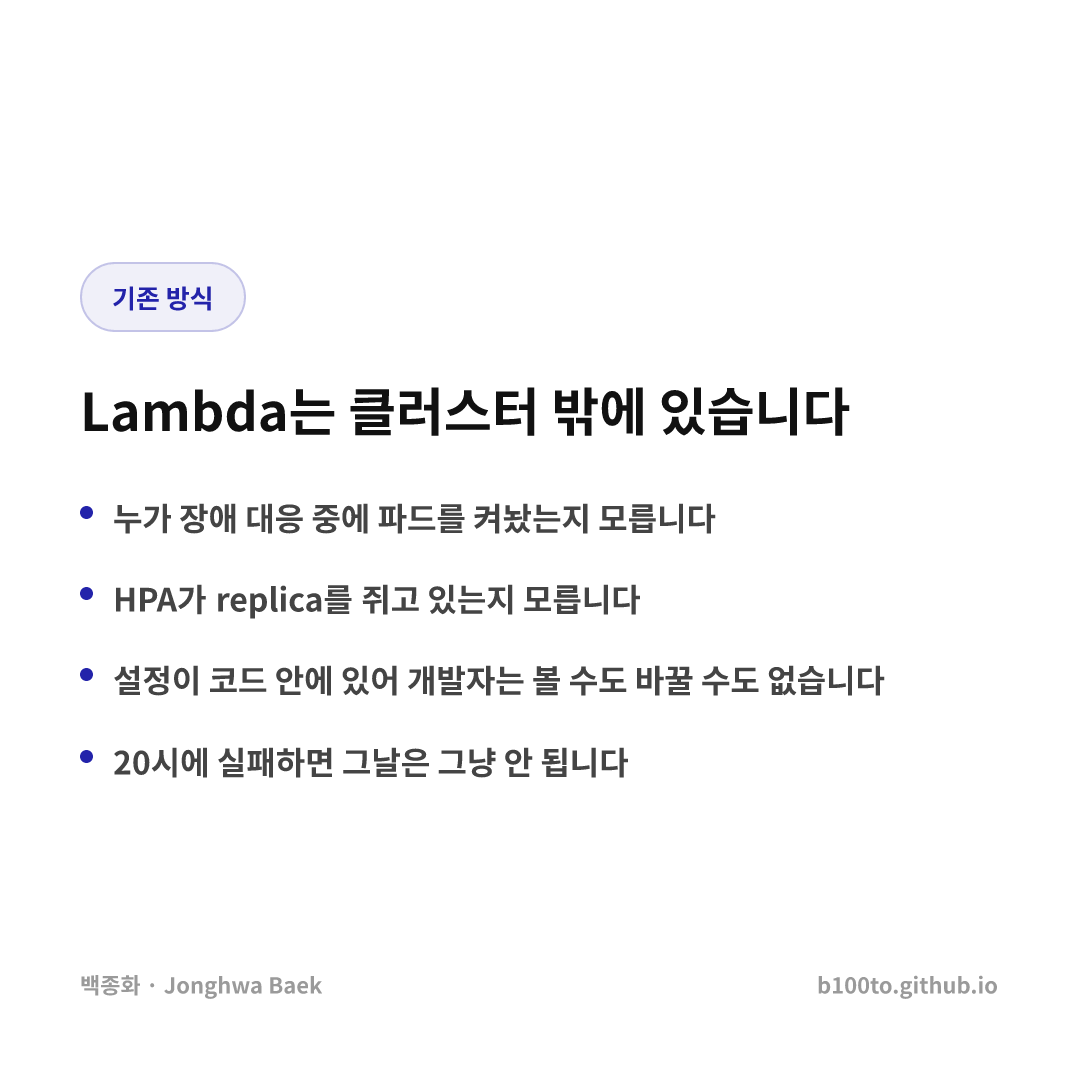
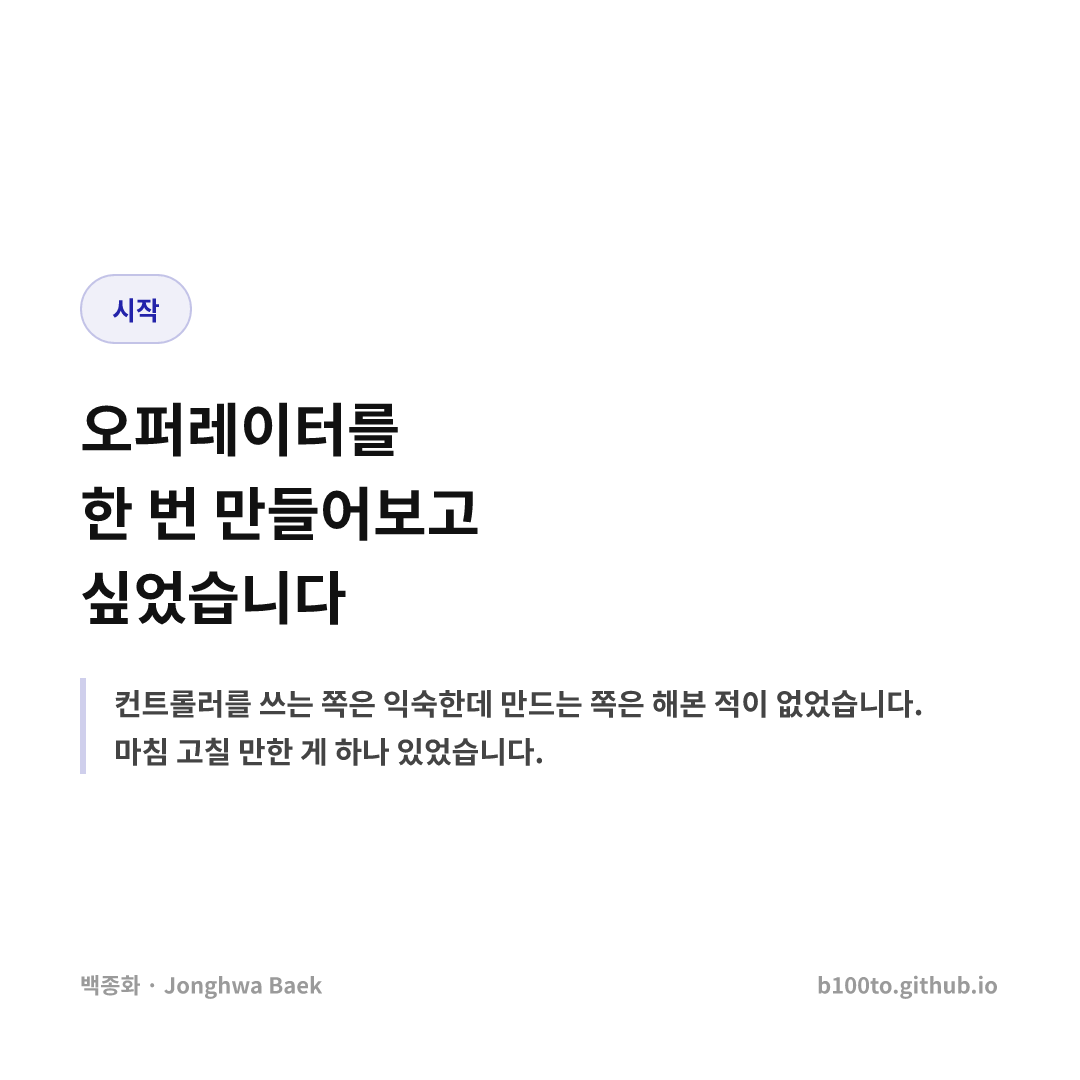
docs(posts): 실제 계기로 도입부를 다시 씀
앞선 판은 "Lambda 가 구조적으로 열등하다"는 기술 비판으로 시작했다. 그건 실제
이유가 아니었고, 반박당하기도 쉬운 주장이다.

실제 계기는 둘이었다. 오퍼레이터를 직접 만들어보고 싶었고 — 컨트롤러를 쓰는
쪽은 익숙한데 만드는 쪽은 해본 적이 없었다 — 마침 고칠 만한 것이 있었다.

그리고 Lambda 의 문제는 성능이나 설계가 아니라 위치였다. 인프라 대부분이
쿠버네티스와 Terraform 위에 있는데 이 기능 하나만 바깥에 있었고, 그래서
어디를 고치고 어떻게 배포하고 인수인계 시 어디부터 보는지가 애매했다.
동작하는 코드보다 누가 어떻게 유지보수하는가가 걸린 문제였다.

"우리 생태계 밖이라 유지보수가 어렵다"는 관찰이고, "이 도구가 열등하다"는
주장이다. 전자가 사실에 가깝고 방어할 필요도 없다.

카드 덱에도 같은 프레임을 반영해 계기 슬라이드를 넣었다. 11장이 됐다.

Changed region(s): [[0.0611, 0.3361, 0.7944, 0.5806], [0.0611, 0.6111, 0.8556, 0.7333], [0.0611, 0.2444, 0.2139, 0.3361]]

diff --git a/content/posts/kubernetes-operator-idle-reaper/index.md b/content/posts/kubernetes-operator-idle-reaper/index.md
@@ -11,31 +11,37 @@ heroStyle: "background"
 
 파드를 0으로 내려도 비용은 줄지 않습니다. 노드가 사라져야 줄어들고, 노드는 옮겨야 할 파드가 하나도 남지 않았을 때만 사라집니다.
 
-dev 환경 야간·주말 스케일다운은 예전부터 EventBridge + Lambda로 처리하고 있었습니다. 동작은 했지만 두 가지가 계속 걸렸습니다.
+이 글은 그 이야기이기도 하지만, 시작은 좀 더 단순했습니다.
+
+**오퍼레이터를 한 번 만들어보고 싶었습니다.** 컨트롤러를 쓰는 쪽으로는 익숙한데 만드는 쪽은 해본 적이 없었고, 플랫폼 엔지니어링 영역에 직접 손을 대보고 싶었습니다.
+
+마침 고칠 만한 게 하나 있었습니다.
 
 ---
 
-## 1. 클러스터 밖에서 조작하는 것의 한계
+## 1. Lambda가 나빠서가 아니라, 우리가 안 쓰는 도구라서
 
-**클러스터 안에서 무슨 일이 일어나는지 모릅니다.**
+dev 환경 야간·주말 스케일다운은 EventBridge + Lambda로 만들어 두고 잘 돌고 있었습니다. 문제는 동작이 아니었습니다.
 
-Lambda는 정해진 시각에 replica를 0으로 바꿉니다. 그런데 그 순간:
+**평소에 Lambda를 쓰지 않습니다.** 인프라 대부분이 쿠버네티스와 Terraform 위에 있는데, 이 기능 하나 때문에 관리해야 할 곳이 하나 더 생겼습니다.
 
-- 누가 장애 대응 중이라 파드를 켜놨는지 모릅니다
-- HPA가 붙어 있는 워크로드인지 모릅니다
-- 이미 0인지, 방금 배포됐는지 모릅니다
+그러면 이런 것들이 애매해집니다.
 
-전부 "지금 클러스터가 어떤 상태인가"를 알아야 판단할 수 있는데, 밖에서는 매번 API를 뒤져야 합니다.
+- 스케줄을 바꾸려면 어디를 고쳐야 하는가
+- 그 변경은 어떤 경로로 배포되는가
+- 다른 사람이 인수인계받으면 어디부터 봐야 하는가
 
-**설정이 개발자에게 보이지 않습니다.**
+동작하는 코드보다 **누가 어떻게 유지보수할 것인가**가 걸렸습니다. 쿠버네티스 생태계 안에 있는 것들은 배포도 조회도 권한도 같은 방식으로 다루는데, 이것만 바깥에 있었습니다.
 
-스케줄이 Lambda 코드나 환경변수 안에 있습니다. 개발자는 자기 네임스페이스가 몇 시에 꺼지는지 확인할 방법이 없고, 바꾸려면 DevOps에 요청해야 합니다.
+기술적인 한계도 물론 있었습니다.
 
-**그리고 한 번 쏘고 끝입니다.**
+**클러스터 안에서 무슨 일이 일어나는지 모릅니다.** Lambda는 정해진 시각에 replica를 0으로 바꿉니다. 그 순간 누가 장애 대응 중이라 파드를 켜놨는지, HPA가 붙어 있는 워크로드인지 알지 못합니다.
 
-Lambda가 20시에 실패하면 그날은 그냥 안 됩니다. 다음 실행까지 아무 일도 일어나지 않습니다.
+**설정이 개발자에게 보이지 않습니다.** 스케줄이 Lambda 코드나 환경변수 안에 있어서, 개발자는 자기 네임스페이스가 몇 시에 꺼지는지 확인할 방법이 없습니다.
 
----
+**그리고 한 번 쏘고 끝입니다.** 20시에 실패하면 그날은 그냥 안 됩니다.
+
+이 정도면 오퍼레이터로 옮겨서 간소화할 수 있겠다 싶었고, 만들어보면서 실제로 어떤 이점이 생기는지도 확인해보고 싶었습니다.
 
 ## 2. 컨트롤러로 옮기면 달라지는 것
 

diff --git a/content/posts/kubernetes-operator-idle-reaper/index.en.md b/content/posts/kubernetes-operator-idle-reaper/index.en.md
@@ -13,31 +13,37 @@ heroStyle: "background"
 
 Scaling pods to zero does not reduce the bill. The node has to go away, and a node only goes away when nothing is left on it that would have to be evicted first.
 
-Dev-environment nightly and weekend scale-down had been running on EventBridge plus Lambda for a while. It worked, but two things kept bothering me.
+This post is about that, but it started somewhere simpler.
+
+**I wanted to build an operator.** I am comfortable running controllers and had never written one, and I wanted to touch the platform-engineering side directly rather than only consume it.
+
+There happened to be something worth fixing.
 
 ---
 
-## 1. The cost of acting from outside the cluster
+## 1. Not because Lambda is bad, but because we do not use it
 
-**It cannot see what is happening inside.**
+Dev-environment nightly and weekend scale-down had been running on EventBridge plus Lambda for a while, and running fine. The problem was not that it failed.
 
-Lambda sets replicas to zero at a fixed time. At that moment it does not know:
+**We do not otherwise use Lambda.** Nearly everything sits on Kubernetes and Terraform, and this one feature added a second place to maintain.
 
-- whether somebody scaled a workload up during an incident
-- whether an HPA already owns those replicas
-- whether the deployment landed thirty seconds ago
+That makes ordinary questions awkward:
 
-All of those require knowing the cluster's current state, and from outside you have to go fetch it every time.
+- where do I go to change the schedule
+- how does that change get deployed
+- if someone inherits this, where do they start
 
-**The configuration is invisible to developers.**
+What bothered me was not the code but **who maintains it and how**. Everything inside the Kubernetes ecosystem is deployed, inspected and permissioned the same way. This one thing sat outside all of it.
 
-The schedule lives in Lambda code or environment variables. A developer cannot check when their namespace goes down, and changing it means filing a request.
+There were technical limits too.
 
-**And it fires once.**
+**It cannot see inside the cluster.** Lambda sets replicas to zero at a fixed time. It does not know whether somebody scaled a workload up during an incident, or whether an HPA already owns those replicas.
 
-If the Lambda fails at 20:00, that night simply does not happen. Nothing retries until the next scheduled run.
+**The configuration is invisible to developers.** The schedule lives in Lambda code or environment variables, so a developer cannot check when their namespace goes down.
 
----
+**And it fires once.** If it fails at 20:00, that night simply does not happen.
+
+An operator looked like it could collapse all of that into one place -- and building one would show me what the model actually buys, rather than what it is said to buy.
 
 ## 2. What changes inside a controller
 
